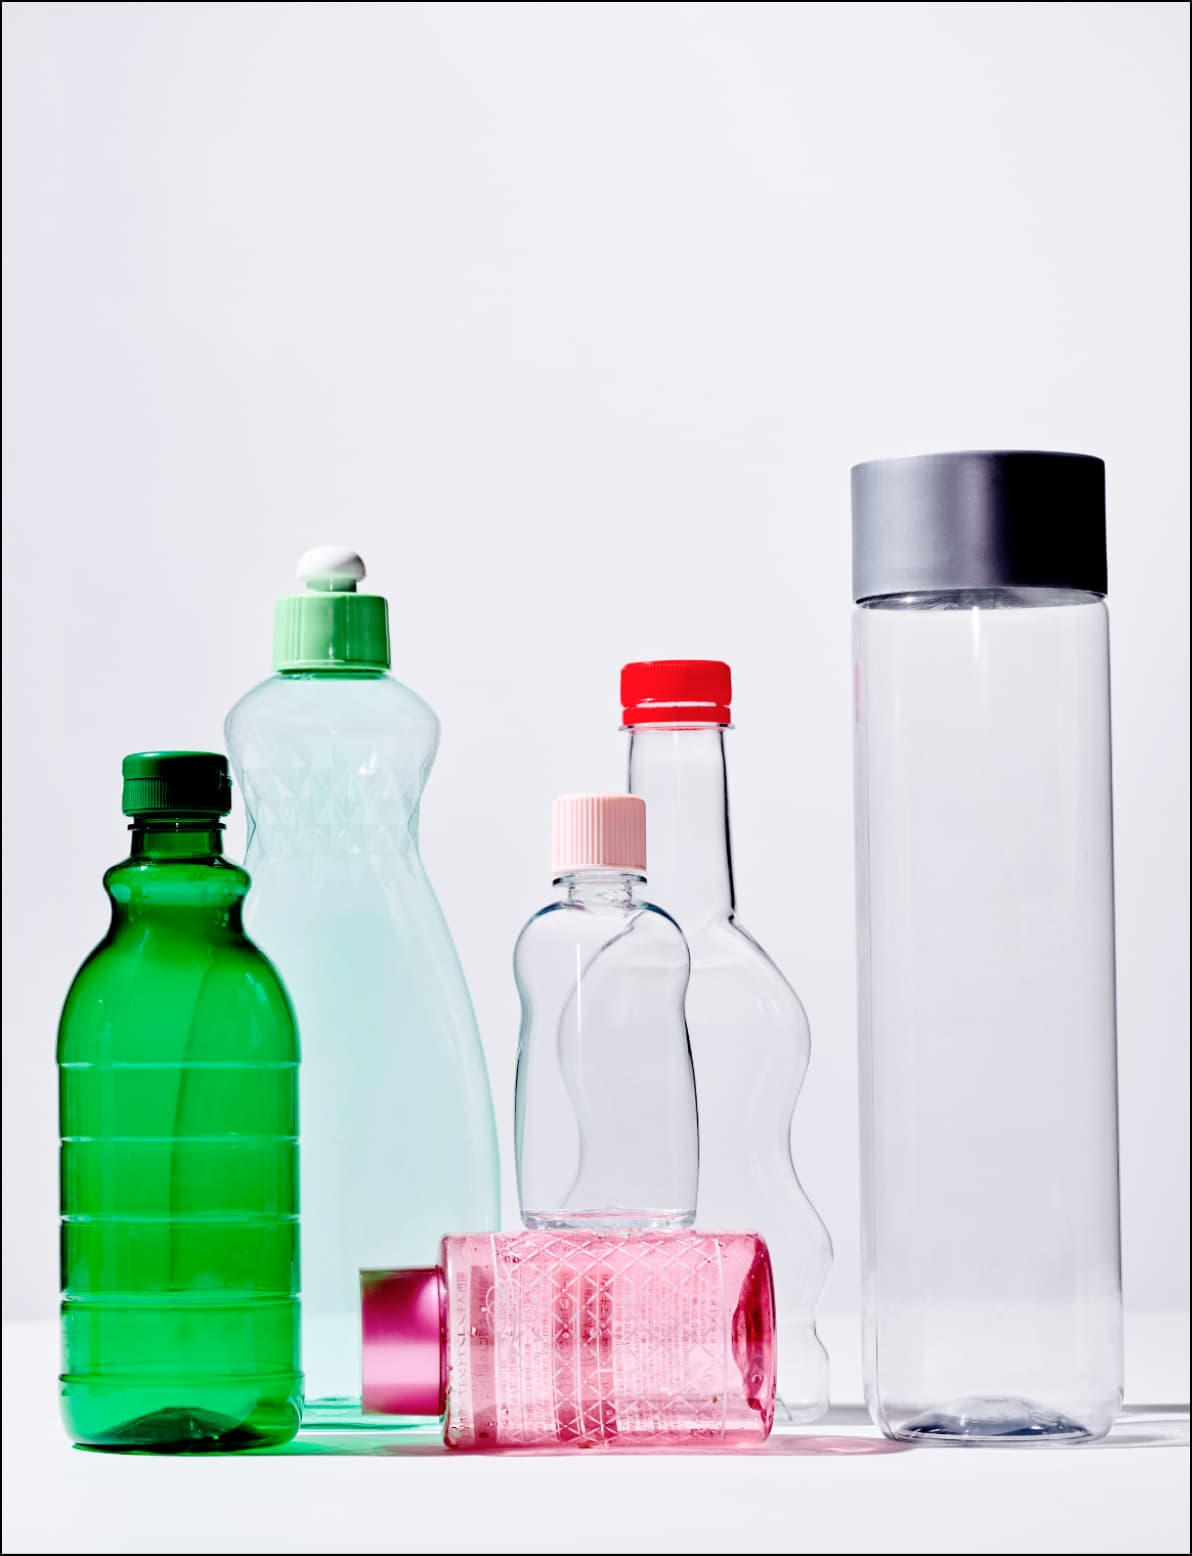
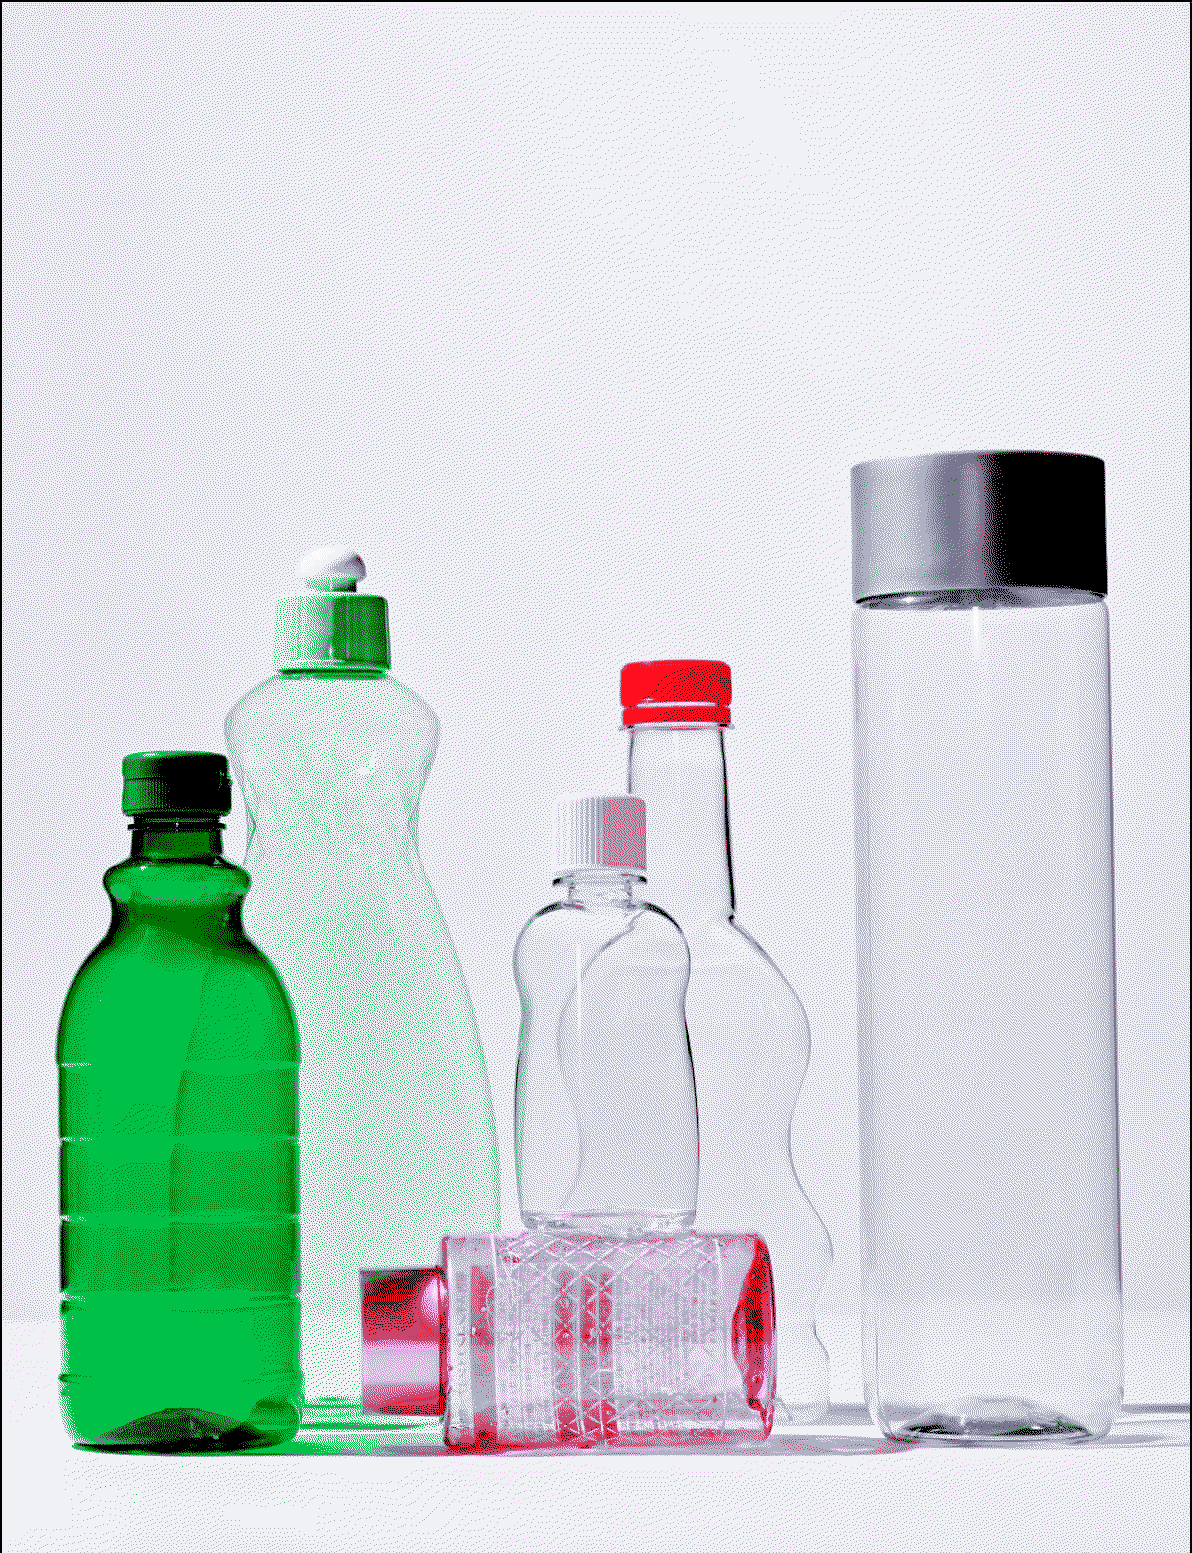
Typography QA
Refined typography.css styles and replaced images with border errors

Changed region(s): [[0.0, 0.0, 1.0, 1.0], [0.8691, 0.0, 1.0, 0.1545]]

diff --git a/site/src/assets/css/lib/_typography.css b/site/src/assets/css/lib/_typography.css
@@ -26,10 +26,13 @@ h1, h2, h3, h4, h5 {
 
 h1 {
   font-size: 40px;
+  font-weight: 500;
   line-height: 1.2;
+  letter-spacing: -.035em;
   @media (min-width: 800px) {
     font-size: 80px;
     line-height: 0.9;
+    
   }
 }
 
@@ -76,11 +79,13 @@ a {
 .s13 {
   font-size: 13px;
   line-height: 1.3;
+  font-weight:500;
 }
 
 .s14 {
   font-size: 14px;
   line-height: 1.3;
+  font-weight: 500;
 }
 
 .sm16 {
@@ -115,6 +120,7 @@ a {
 
 .s28 {
   font-size: 20px;
+  font-weight:500;
   @media (min-width: 800px) {
     font-size: 28px;
     line-height: 1.3;
@@ -124,7 +130,8 @@ a {
 
 .s30 {
   font-size: 22px;
-  line-height: 1.4;
+  line-height: 1.3;
+  letter-spacing: -.01em;
   @media (min-width: 800px) {
     font-size: 30px;
     line-height: 1.3;
@@ -133,7 +140,9 @@ a {
 
 .s40 {
   font-size: 25px;
-  line-height: 1.3;
+  line-height: 1.2;
+  font-weight:500;
+  letter-spacing: -.01em;
   @media (min-width: 800px) {
     font-size: 40px;
   }
@@ -167,10 +176,12 @@ p {
   margin-top: 1em;
   margin-bottom: 1em;
   font-size: 16px;
+  line-height: 24px;
 }
 
 .s16 {
   font-size: 16px;
+  line-height: 22px;
 }
 
 ul, ol {
@@ -182,6 +193,8 @@ ul, ol {
 
 .caps {
   text-transform: uppercase;
+  letter-spacing: .05em;
+
 }
 
 .capitalize {
